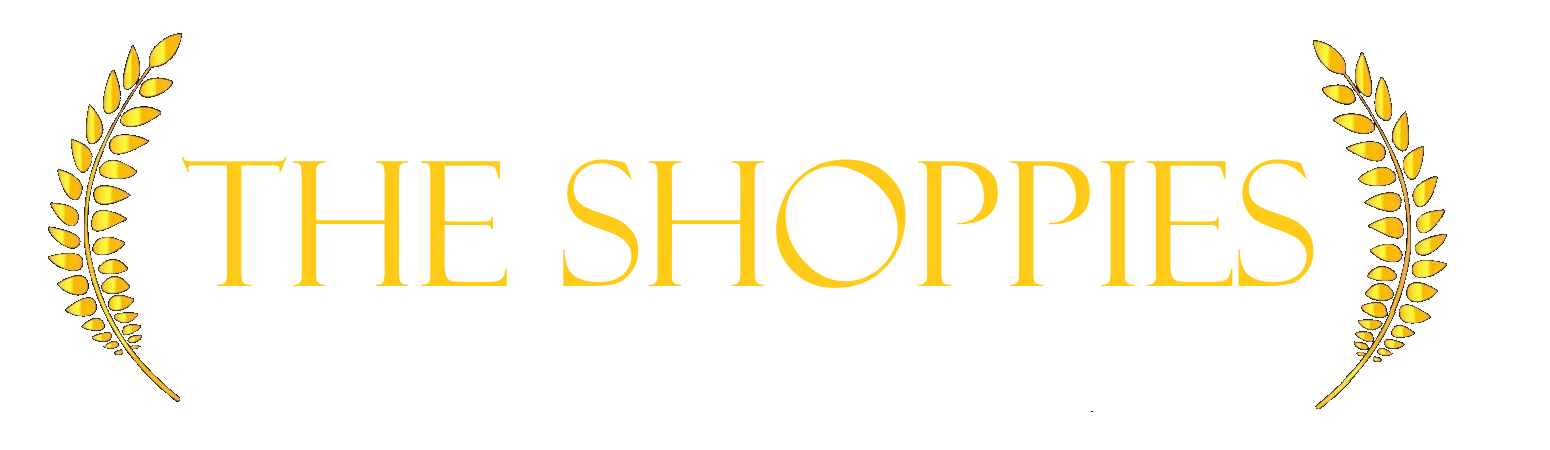
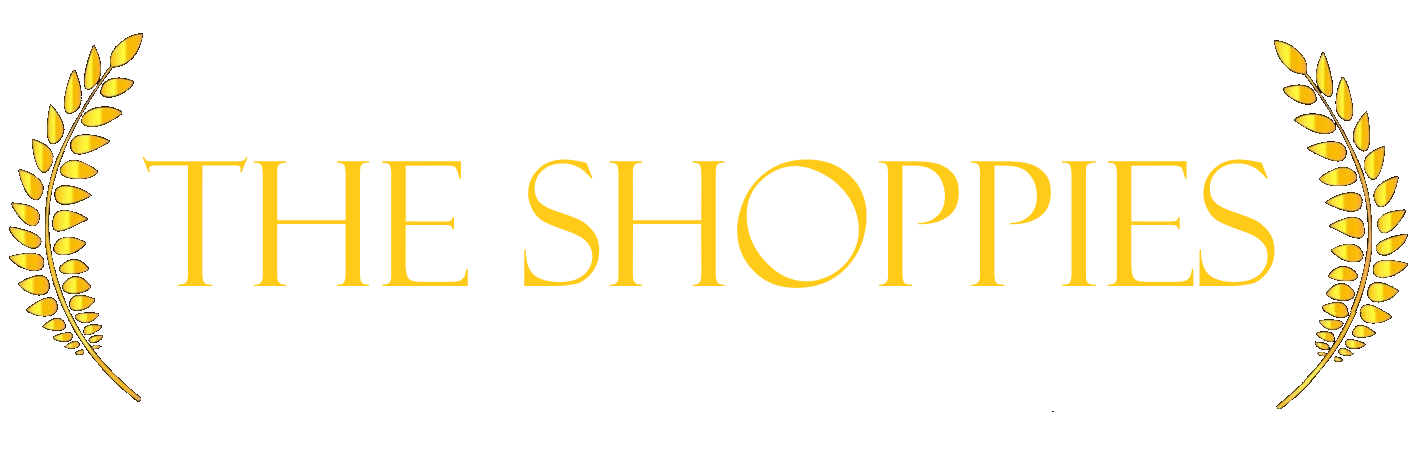
added styling to cards

diff --git a/client/src/pages/Home.js b/client/src/pages/Home.js
@@ -22,6 +22,9 @@ const useStyles = makeStyles((theme) => ({
         margin: '2rem 1rem 2rem 1rem',
         width: '15rem',
         height: '32rem',
+        borderStyle: 'solid',
+        borderWidth: '10px',
+        borderColor: '#efc62c',
         '&:hover': {
             transition: 'transform .2s',
             transform: 'scale(1.1)'
@@ -95,11 +98,8 @@ const Home = (props) => {
 
     return (
         <Grid container justify='center' alignItems='center'>
-            {/* <Typography variant='h1' gutterBottom style={{ marginTop: '2rem' }}>
-                The Shoppies
-            </Typography> */}
-            <Grid item>
-                <img src={logo} alt='The Shoppies' />
+            <Grid container justify='center' alignItems='center'>
+                <img src={logo} alt='The Shoppies' style={{ width: '75%' }} />
             </Grid>
 
             <Grid container direction='column' justify='center' alignItems='center'>
@@ -108,19 +108,22 @@ const Home = (props) => {
                 <Grid item style={{ width: '66%', margin: '1rem 0 1rem 0' }}>
                     <form onSubmit={handleFormSubmit}>
                         <TextField
-                            id="outlined-basic"
                             label="Search for a film"
-                            variant="outlined"
+                            variant="filled"
                             className={classes.searchInput}
                             onChange={handleInputChange}
                             value={search}
                             autoFocus
+                            color='secondary'
+                            style={{ backgroundColor: '#efc62c' }}
+                            autoComplete
                         />
                         <Button
                             variant='contained'
                             className={classes.button}
                             onClick={handleFormSubmit}
                             type='submit'
+                            color='secondary'
                         >
                             Search
                         </Button>
@@ -138,7 +141,7 @@ const Home = (props) => {
                                         (
                                             <Grid item >
                                                 <Alert severity="warning" style={{ textAlign: 'center', margin: '2rem' }}>
-                                                    You have nominated the max amount of films (5).<br />
+                                                    You have nominated the max amount of films ( 5 ).<br />
                                                     If you would like to change your nominations,<br />
                                                     click on the Nominations tab above
                                                 </Alert>
@@ -163,14 +166,14 @@ const Home = (props) => {
                     (
                         results.map((movie, index) => (
                             <Card key={index} className={classes.movieCards}>
-                                <CardMedia style={{ height: '70%' }}>
+                                <CardMedia style={{ height: '68%' }}>
                                     <img
                                         src={movie.Poster === 'N/A' ? 'https://via.placeholder.com/150?text=No+Image' : movie.Poster}
                                         alt={`${movie.Title} Poster`}
                                         style={{ height: '100%', width: '100%' }}
                                     />
                                 </CardMedia>
-                                <CardContent style={{ padding: '.75rem', height: '14%' }}>
+                                <CardContent style={{ padding: '.75rem', height: '16%' }}>
                                     <Typography
                                         gutterBottom
                                         variant='subtitle2'
@@ -196,6 +199,7 @@ const Home = (props) => {
                                         onClick={nominate}
                                         disabled={titles.includes(movie.Title) || nominated.length >= 5}
                                         style={{ display: 'flex', margin: 'auto' }}
+                                        color='secondary'
                                     >
                                         Nominate
                                     </Button>

diff --git a/client/src/pages/Nominated.js b/client/src/pages/Nominated.js
@@ -9,15 +9,18 @@ const useStyles = makeStyles((theme) => ({
         margin: '2rem 1rem 2rem 1rem',
         width: '15rem',
         height: '32rem',
+        borderStyle: 'solid',
+        borderWidth: '10px',
+        borderColor: '#efc62c',
         '&:hover': {
             transition: 'transform .2s',
-            transform: 'scale(1.1)'
+            transform: 'scale(1.1)',
         },
     },
     line: {
         height: '1px',
         width: '90vw',
-        backgroundColor: 'black'
+        backgroundColor: '#efc62c'
     }
 }));
 
@@ -112,12 +115,12 @@ const Nominated = (props) => {
 
     return (
         <Grid container justify='center' alignItems='center'>
-            <Typography variant='h1' gutterBottom style={{ marginTop: '2rem' }}>
+            <Typography variant='h1' gutterBottom style={{ marginTop: '2rem' }} color='secondary'>
                 Nominations
             </Typography>
 
             <hr className={classes.line} />
-            <Typography variant='h3' gutterBottom style={{ textAlign: 'center' }}>
+            <Typography variant='h2' gutterBottom style={{ textAlign: 'center' }} color='secondary'>
                 My Nominations
             </Typography>
 
@@ -126,14 +129,14 @@ const Nominated = (props) => {
                     (
                         JSON.parse(localStorage.getItem('movies')).map((movie, index) => (
                             <Card key={index} className={classes.movieCards}>
-                                <CardMedia style={{ height: '70%' }}>
+                                <CardMedia style={{ height: '68%' }}>
                                     <img
                                         src={movie.image}
                                         alt={`${movie.title} Poster`}
                                         style={{ height: '100%', width: '100%' }}
                                     />
                                 </CardMedia>
-                                <CardContent style={{ padding: '.75rem', height: '14%' }}>
+                                <CardContent style={{ padding: '.75rem', height: '16%' }}>
                                     <Typography
                                         gutterBottom
                                         variant='subtitle2'
@@ -159,6 +162,7 @@ const Nominated = (props) => {
                                         image={movie.image}
                                         onClick={unNominate}
                                         style={{ display: 'flex', margin: 'auto' }}
+                                        color='secondary'
                                     >
                                         Un-Nominate
                                         </Button>
@@ -180,22 +184,21 @@ const Nominated = (props) => {
             </Grid>
 
             <hr className={classes.line} />
-            <Typography variant='h3' gutterBottom>
+            <Typography variant='h3' gutterBottom color='secondary'>
                 Overall Nominations
             </Typography>
             <Grid container justify='center' alignItems='center' >
                 {results.map((movie, index) => (
                     <Card key={index} className={classes.movieCards}>
-                        <CardMedia style={{ height: '70%' }}>
+                        <CardMedia style={{ height: '68%' }}>
                             <img
                                 src={movie[2]}
                                 alt={`${movie[0]} Poster`}
                                 style={{ height: '100%', width: '100%' }}
                             />
                         </CardMedia>
-                        <CardContent style={{ padding: '.75rem', height: '14%' }}>
+                        <CardContent style={{ padding: '.75rem', height: '16%' }}>
                             <Typography
-                                gutterBottom
                                 variant='subtitle2'
                                 style={{ fontWeight: 'bold', textAlign: 'center' }}
                             >

diff --git a/client/src/components/Navbar/index.js b/client/src/components/Navbar/index.js
@@ -36,15 +36,9 @@ const useStyles = makeStyles((theme) => ({
         color: 'black',
         '&:hover': {
             backgroundColor: 'transparent',
-            color: theme.palette.common.orange
-        }
-    },
-    title: {
-        fontSize: '2rem',
-        color: 'white',
-        textDecoration: 'none',
-        '&:hover': {
-            color: theme.palette.common.orange
+        },
+        '& .MuiButton-label': {
+            fontSize: '2rem'
         }
     }
 }));
@@ -70,6 +64,9 @@ export default function ElevateAppBar(props) {
                             disableRipple
                             component={Link} to='/nominated'
                             className={classes.button}
+                            color='primary'
+                            size='large'
+
                         >
                             Nominations
                         </Button>

diff --git a/client/src/App.js b/client/src/App.js
@@ -3,7 +3,6 @@ import { BrowserRouter, Route, Switch } from "react-router-dom";
 import { ThemeProvider } from '@material-ui/core/styles';
 import Theme from "./components/Theme";
 
-import "./App.css";
 import Home from "./pages/Home";
 import Nominated from "./pages/Nominated";
 import Navbar from "./components/Navbar";

diff --git a/client/src/components/Theme/index.js b/client/src/components/Theme/index.js
@@ -17,6 +17,8 @@ export default Theme({
         }
     },
     typography: {
-        fontFamily: 'Forum'
+        fontFamily: 'Forum',
+        htmlFontSize: 20,
+        fontSize: 20
     }
 })
